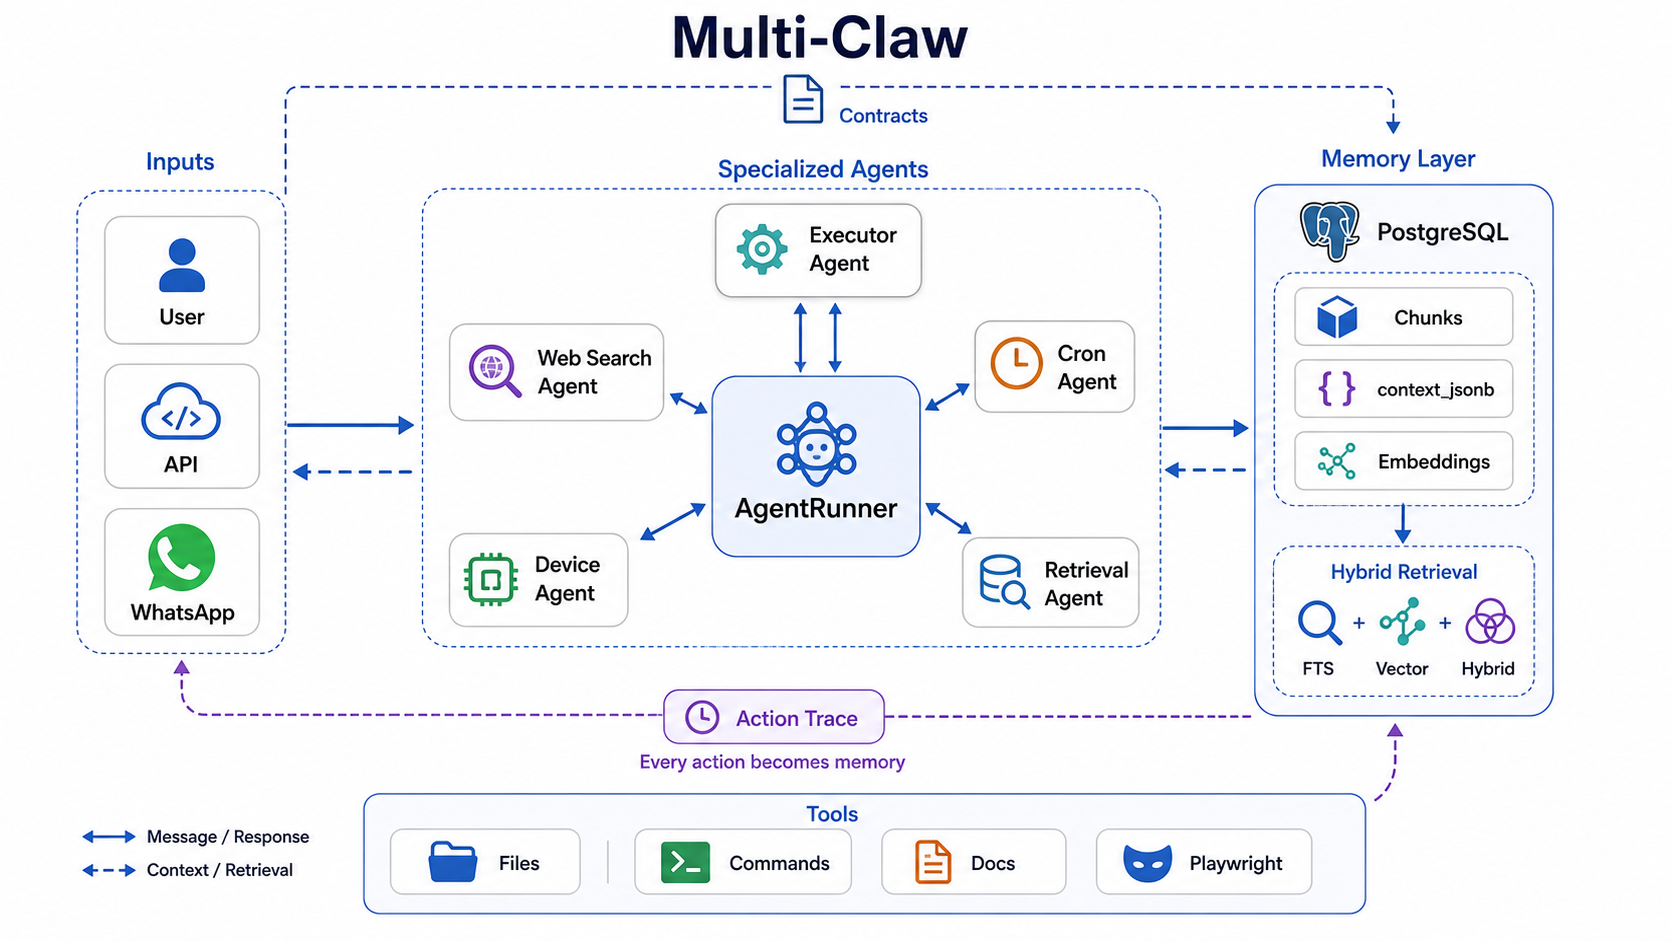
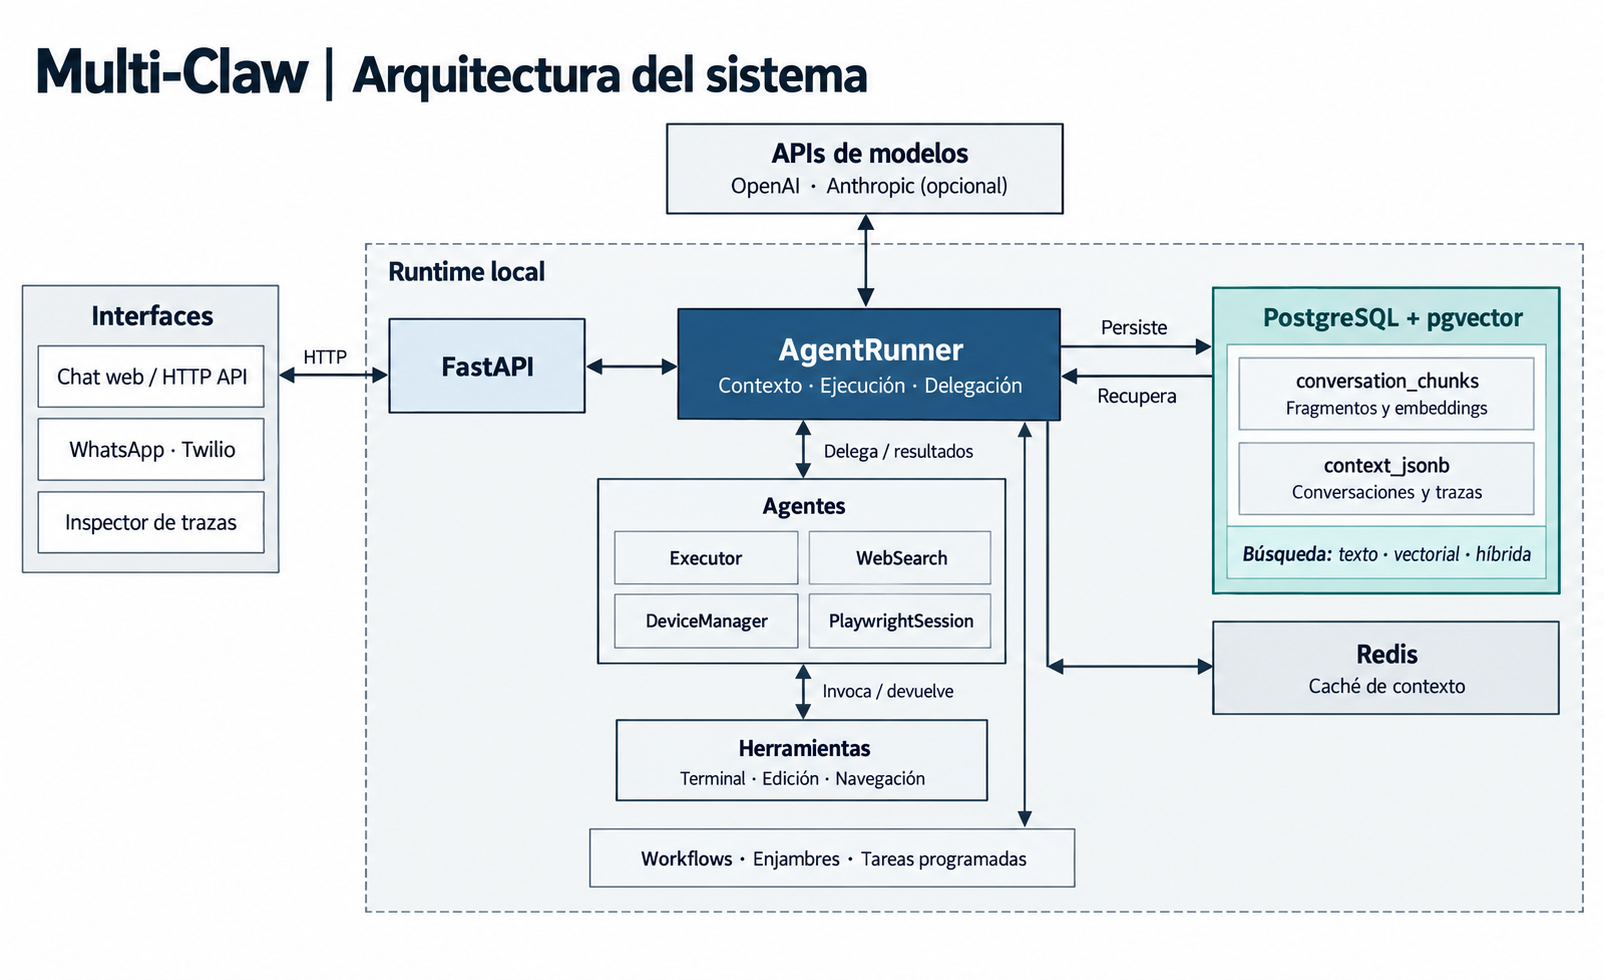
update readme, architecture diagram and default models

diff --git a/README.md b/README.md
@@ -7,85 +7,75 @@
 ![Docker](https://img.shields.io/badge/Docker-Ready-2496ED?style=for-the-badge&logo=docker&logoColor=white)
 ![OpenAI](https://img.shields.io/badge/OpenAI-Responses_API-111111?style=for-the-badge&logo=openai&logoColor=white)
 
-**Multi-Claw es un laboratorio local de agentes autónomos con memoria profunda.**
+**Agentes que ejecutan tareas, delegan trabajo y conservan una memoria consultable de lo que hicieron.**
 
-No es "un chatbot con herramientas": es un runtime para agentes que trabajan, delegan, ejecutan, guardan trazabilidad y luego pueden reconstruir qué pasó.
+Runtime local y experimental que combina herramientas, workflows y memoria persistente para reconstruir **qué ocurrió, cuándo y qué agente intervino**.
 
-```text
-Multi-Claw = multiagente + memoria accionable + workflows + runtime local
-```
+![Chat/API → AgentRunner → agentes y herramientas; PostgreSQL guarda y recupera trazas; Redis mantiene la caché.](docs/architecture.png)
 
-![Arquitectura de Multi-Claw](docs/architecture.png)
+## Qué puedes hacer
 
-## Highlights
+- **Delegar tareas:** agentes especializados y enjambres con presupuestos controlados por el servidor.
+- **Ejecutar trabajo:** terminal, edición de archivos, navegación con Playwright y tareas programadas.
+- **Reutilizar procedimientos:** workflows versionables con instrucciones, prompts y plantillas SQL.
+- **Consultar el historial:** buscar por sesión, fecha, herramienta, subagente, texto o similitud.
+- **Inspeccionar ejecuciones:** conversaciones, llamadas a herramientas y árboles de agentes en una misma traza.
+- **Ajustar recursos:** elegir modelos por agente y repartir contexto entre subtareas.
 
-- 🧠 **Memoria operacional:** conversaciones, chunks, `context_jsonb`, decisiones, tools, subagentes y artefactos.
-- ⚙ **Agentes autónomos:** tareas periódicas tipo cron, con estado y trazabilidad.
-- 🧩 **Workflows versionables:** playbooks, prompts y SQL templates como habilidades reutilizables.
-- 💸 **Menos coste/context rotting:** subtareas delegables a agentes/modelos más baratos.
-- 🛡 **Aislamiento extra:** agentes, contratos y tools separados reducen superficie ante prompt injection.
-- 🔎 **Retrieval multitemporal:** consultas por sesión, fecha, evento, herramienta, subagente o texto literal.
+> Uso interno con historiales de más de 20 millones de tokens; pendiente de benchmark formal.
 
-> En uso real interno ha funcionado bien con historiales de más de 20M tokens. Falta benchmark formal: prometedor, no una garantía.
+## Arranque rápido con Docker
 
-## Frente A OpenClaw Y Similares
-
-OpenClaw está más maduro como producto: mejor instalación, más canales, más ecosistema y una memoria muy trabajada con archivos, SQLite/hybrid search, QMD, Honcho y wiki.
-
-Multi-Claw vende otra cosa: **memoria como caja negra consultable de la ejecución del agente**.
-
-| Area | OpenClaw / similares | Multi-Claw |
-| --- | --- | --- |
-| Producto | Más pulido | Más experimental y hackeable |
-| Memoria | Notas, sesiones, índices y backends | PostgreSQL + chunks + `context_jsonb` |
-| Foco | Asistente local completo | Auditoría, retrieval y automatización profunda |
-| Recall | Knowledge/user memory | Acciones, tools, subagentes y temporalidad |
-| Coste | Runtime generalista | Delegacion multiagente para contener contexto |
-| Seguridad | Ecosistema más maduro | Aislamiento por agentes/contratos como capa adicional |
-
-Referencias: [OpenClaw Memory](https://docs.openclaw.ai/concepts/memory) y [OpenClaw Multi-Agent](https://docs.openclaw.ai/concepts/multi-agent).
-
-## Casos Que Quiere Resolver
-
-- "¿Qué decisión tomó el agente sobre este proyecto hace tres semanas?"
-- "¿Qué subagente generó este archivo y bajo qué contrato?"
-- "¿Qué tool falló antes de que apareciera este bug?"
-- "¿Dónde se mezclan tema A, fecha B y herramienta C?"
-- "¿Qué preferencias del usuario cambiaron esta respuesta?"
-
-## Estado Real
-
-Experimental, local-first y todavía no empaquetado como producto. Necesita `OPENAI_API_KEY`, PostgreSQL y, de forma recomendada, Redis. `pgvector` activa la búsqueda vectorial; sin él, los embeddings quedan guardados pero no hay retrieval vectorial real.
-
-No expongas esto a Internet sin revisar auth, CORS, tools de comandos y permisos de escritura.
-
-## Arranque Rápido Para Un Clone Nuevo
+Necesitas Git, Docker Compose y una clave de OpenAI con acceso a los modelos de [la configuración](agents/agent_config.json).
 
 ```bash
-git clone <url-del-repo>
+git clone https://github.com/ale-espa-pro/multi-claw.git
 cd multi-claw
-export OPENAI_API_KEY="sk-..."
+cp .env.example .env
+# Edita .env: OPENAI_API_KEY y CHAT_API_KEY; cambia la contraseña de Postgres.
 docker compose up --build
 ```
 
-Abre `http://localhost:8000`.
+Compose crea PostgreSQL con pgvector y Redis, persiste sus datos y monta `./working-dir`.
 
-## Stack
+- **Chat:** [localhost:8000](http://localhost:8000).
+- **Inspector de agentes:** [localhost:8000/inspector](http://localhost:8000/inspector); admite `X-API-Key`.
+- **API interactiva:** [localhost:8000/docs](http://localhost:8000/docs).
 
-| Capa | Tecnología |
-| --- | --- |
-| API | FastAPI + Uvicorn |
-| Agentes | OpenAI Responses API |
-| Memoria | PostgreSQL, pgvector/HNSW, FTS, JSONB |
-| Cache | Redis |
-| UI | `index.html` |
-| Automatización | crons + workflows |
-| Canales | HTTP + Twilio/WhatsApp opcional |
-| Tools | archivos, comandos, docs, Playwright |
+**Autenticación:** con `CHAT_API_KEY` definida, envía `X-API-Key` en las peticiones. El chat web la pide la primera vez y la recuerda en el navegador. Sin clave, la API y su terminal quedan abiertas: úsalo solo en un entorno local de confianza.
 
-No commitees `.env`, claves, dumps, screenshots privados ni memoria personal.
+Para detener los servicios conservando datos: `docker compose down`.
 
-## Configuración Mínima
+## Estado y alcance
+
+El runtime y los datos residen en tu máquina; modelos y embeddings usan APIs externas. Requiere `OPENAI_API_KEY` y PostgreSQL; Redis es recomendable. Sin pgvector se guardan embeddings, pero no hay búsqueda vectorial.
+
+La separación de agentes y herramientas **no constituye un sandbox** ni garantiza protección frente a inyección de prompts.
+
+## Frente a OpenClaw
+
+Multi-Claw prioriza la **memoria de ejecución**: acciones, herramientas, delegaciones y contexto.
+
+| Aspecto | OpenClaw | Multi-Claw |
+| --- | --- | --- |
+| Memoria | Archivos Markdown, notas y búsqueda | PostgreSQL, fragmentos y `context_jsonb` |
+| Agentes | Espacios de trabajo y sesiones por agente | Especialistas y enjambres con trazas por nodo |
+| Organización | Enrutamiento de mensajes entre agentes | Delegación de tareas y árbol de informes |
+
+Comparación de diseño: [memoria de OpenClaw](https://docs.openclaw.ai/concepts/memory) y [enrutamiento multiagente](https://docs.openclaw.ai/concepts/multi-agent).
+
+## Preguntas que ayuda a resolver
+
+- «¿Qué decisión tomó el agente sobre este proyecto hace tres semanas?»
+- «¿Qué subagente generó este archivo y bajo qué contrato?»
+- «¿Qué herramienta falló antes de que apareciera este error?»
+- «¿Dónde coinciden este tema, esta fecha y esta herramienta?»
+
+## Configuración
+
+[`.env.example`](.env.example) contiene los valores para Docker. Los modelos, herramientas y límites por agente se definen en [`agents/agent_config.json`](agents/agent_config.json). Los modelos `claude-*` requieren además `ANTHROPIC_API_KEY`.
+
+**Sin Docker**, configura en `.env` tus servicios:
 
 ```env
 OPENAI_API_KEY=sk-...
@@ -102,146 +92,142 @@ MULTIAGENT_PG_SCHEMA=multiagente
 REDIS_URL=redis://localhost:6379
 ```
 
-Opcionales útiles: `MEMORY_RETRIEVAL_MODE=vector|keyword|hybrid`, `REDIS_CONTEXT_TTL_SECONDS`, `TOOL_OUTPUT_MAX_CHARS`, `TOOL_OUTPUT_HARD_MAX_CHARS`, `AGENT_API_CONCURRENCY`, `TWILIO_*`, `CRONS_PATH`, `WORKFLOW_PATH`, `USER_PREFERENCES_PATH`, `ALLOWED_WRITE_ROOTS`.
+Ajustes útiles: `MEMORY_RETRIEVAL_MODE` (`vector`, `keyword` o `hybrid`), `MEMORY_QUERY_TIMEOUT_SECONDS`, `REDIS_CONTEXT_TTL_SECONDS`, `TOOL_OUTPUT_MAX_CHARS`, `TOOL_OUTPUT_HARD_MAX_CHARS`, `CONTEXT_COMPACT_OVER_CHARS` (`0` lo desactiva), `CONTEXT_CHECKPOINT_SECONDS`, `AGENT_API_CONCURRENCY`, `CORS_ORIGINS` y `ALLOWED_WRITE_ROOTS`. En Docker el servicio carga `.env`; los valores de `environment` tienen prioridad.
 
-## Arranque Con Docker
+### Docker con servicios existentes
 
-Para una instalación nueva, copia `.env.example` a `.env`, rellena `OPENAI_API_KEY` y arranca:
-
-```bash
-docker compose up --build
-```
-
-Esto crea Postgres y Redis en contenedores, monta `./working-dir` en la app y expone la API en `http://localhost:8000`.
-
-Si quieres usar Postgres/Redis ya existentes en tu host, copia `docker-compose.host-db.example.yml` a `docker-compose.local.yml`, ajusta las variables `DOCKER_MULTIAGENT_PG_*` en `.env` y arranca con:
+Copia [`docker-compose.host-db.example.yml`](docker-compose.host-db.example.yml) a `docker-compose.local.yml`. Ajusta en `.env` las variables `DOCKER_MULTIAGENT_PG_*` y `DOCKER_REDIS_URL` a tus servicios; esta variante usa la red del host.
 
 ```bash
 docker compose -f docker-compose.local.yml up --build
 ```
 
-Para parar:
+### Ejecución sin Docker
 
-```bash
-docker compose down
-```
-
-## Arranque Local Sin Docker
-
-Necesitas Python 3.11 o posterior y [`uv`](https://docs.astral.sh/uv/getting-started/installation/). Desde la raíz del proyecto:
+Con Python 3.11+, [`uv`](https://docs.astral.sh/uv/getting-started/installation/) y PostgreSQL accesible, ejecuta desde la raíz:
 
 ```bash
 uv sync --locked
 uv run playwright install chromium
-uv run uvicorn main:app --reload --host 0.0.0.0 --port 8000
+uv run uvicorn main:app --reload --host 127.0.0.1 --port 8000
 ```
 
-Si arrancas desde otro directorio, las rutas relativas de `.env` se resuelven respecto a la raíz del proyecto mediante `app_paths.py`.
+Las rutas de trabajo relativas se resuelven desde la raíz del proyecto mediante `app_paths.py`.
 
 ## API
 
-```http
-POST /chat
-Content-Type: application/json
-X-API-Key: <si CHAT_API_KEY está definido>
+Primera petición; sustituye `change-me` por tu `CHAT_API_KEY`:
+
+```bash
+curl http://localhost:8000/chat \
+  -H 'Content-Type: application/json' \
+  -H 'X-API-Key: change-me' \
+  -d '{"session_id":"demo","username":"usuario","message":"Hola"}'
 ```
 
-```json
-{
-  "session_id": "demo",
-  "username": "usuario",
-  "message": "Hola",
-  "conversation_type": null
-}
-```
+`POST /chat` también acepta `conversation_type` e `images` con `url`, `path`, `data_url`, `file_id` o `base64`.
 
-También acepta `images` con `url`, `path`, `data_url`, `file_id` o `base64`.
+| Ruta | Función |
+| --- | --- |
+| `GET /conversations` | Listar conversaciones |
+| `GET /conversations/{session_id}` | Leer una conversación |
+| `GET /conversations/{session_id}/trace` | Consultar el árbol de agentes y sus trazas |
+| `DELETE /conversations/{session_id}` | Eliminar una conversación |
+| `POST /twilio/webhook` | Recibir mensajes de WhatsApp mediante Twilio |
 
-- `GET /conversations`
-- `GET /conversations/{session_id}`
-- `DELETE /conversations/{session_id}`
-- `POST /twilio/webhook`
+## Cómo funciona la memoria
 
-## Memoria
+Los fragmentos permiten encontrar información; las trazas, reconstruir la ejecución:
 
-La parte fuerte. Multi-Claw trata la memoria como historial consultable de ejecución, no solo como notas o resumen inyectado.
+1. Divide el texto conversacional en fragmentos semánticos y genera embeddings con OpenAI.
+2. Guarda los fragmentos en `multiagente.conversation_chunks`.
+3. Recupera información por búsqueda vectorial, palabras clave o modo híbrido.
+4. Consulta `conversations.context_jsonb` cuando necesita texto literal, cronología o llamadas a herramientas.
 
-1. Divide texto conversacional en chunks semánticos.
-2. Genera embeddings con OpenAI.
-3. Guarda chunks en `multiagente.conversation_chunks`.
-4. Recupera por vector, keyword o híbrido.
-5. Baja a `conversations.context_jsonb` cuando hace falta literalidad o cronología.
+Al empezar un turno, la entrada y salida de herramientas anterior al turno previo se envía resumida si supera 2.000 caracteres. `context_jsonb` conserva siempre el original.
 
-El workflow `working-dir/workflows/memory_retrieval_tutorial` documenta el playbook de retrieval: clasificar intención, reducir espacio de búsqueda, combinar FTS/vector/híbrido y abrir JSON solo cuando compensa.
+El [workflow de recuperación](working-dir/workflows/memory_retrieval_tutorial/README.md) explica cómo acotar búsquedas, combinar texto y vectores y consultar el JSON.
 
-## Enjambres De Agentes
+## Enjambres de agentes
 
-`deploy_swarm` despliega un árbol de agentes efímeros sobre un árbol de carpetas. La invariante es que **el `agent_id` de un agente es su ruta relativa**, así que jerarquía de agentes, de directorios y de carriles en `context_jsonb` son la misma cosa y el inspector reconstruye el árbol sin estado adicional.
+`deploy_swarm` crea agentes efímeros organizados por carpetas. El **`agent_id` es su ruta relativa**: carpetas, jerarquía y trazas comparten estructura.
 
 ```text
 deploy_swarm(root_path=..., budget=12, task=...)
-└── auditoria                    carpeta asignada: auditoria/
-    ├── seguridad                carpeta asignada: auditoria/seguridad/
-    │   └── dependencias         carpeta asignada: auditoria/seguridad/dependencias/
-    └── rendimiento              carpeta asignada: auditoria/rendimiento/
+└── auditoria
+    ├── seguridad
+    │   └── dependencias
+    └── rendimiento
 ```
 
-- **Terminal por defecto.** Cada nodo recibe `run_command` y los hijos heredan ese acceso. La carpeta asignada organiza sus artefactos; no es un sandbox del sistema operativo. `allow_shell=false` retira la terminal de una rama y sus descendientes no pueden recuperarla. `edit_file` sí limita las modificaciones a la carpeta del nodo mediante un `ContextVar` fijado por el runner; inspeccionar archivos externos está permitido.
-- **Presupuesto.** `budget` es el número total de agentes (1-50), raíz incluida. Crear un hijo con `budget=k` cuesta `1+k` al padre y lo que el hijo no gasta se le devuelve al terminar. El tope lo lleva el servidor, no el prompt.
-- **REPORT.md.** Cada agente termina escribiendo un informe con resultado, artefactos, ejecuciones, limitaciones y siguientes pasos. El padre lo recibe ya leído en el resultado de la llamada. Las ramas sin terminal reciben un archivo inicial para completarlo con `edit_file`; no pueden crear archivos nuevos. Si falta el informe o queda vacío o sin completar, el agente recibe un turno extra para escribirlo y, si sigue faltando, el resultado se marca como `report_missing`.
-- **Efímeros pero trazables.** Un nodo vive una sola invocación y su continuidad es el REPORT.md, pero su carril de contexto se persiste entero en `context_jsonb`: todo el árbol queda disponible para `memory_query` y para `/conversations/{id}/trace`.
+- **Acceso:** cada nodo recibe `run_command` por defecto. Su carpeta organiza artefactos, pero no restringe la terminal. `allow_shell=false` retira ese acceso de la rama; sus descendientes no pueden recuperarlo. `edit_file` limita las modificaciones a la carpeta asignada y permite inspeccionar archivos externos.
+- **Presupuesto:** `deploy_swarm(budget=N)` cuenta todos los agentes, raíz incluida (máximo predeterminado: 50). Al crear un hijo, `budget=k` reserva su plaza y otras `k` para descendientes: cuesta `1+k` al padre. El presupuesto no usado se devuelve al terminar.
+- **Informe:** cada nodo escribe `REPORT.md` con resultados, artefactos y limitaciones; el padre recibe su contenido. Sin terminal, el agente completa un informe inicial con `edit_file` y no puede crear archivos. Si no lo completa tras un turno adicional, el resultado se marca `report_missing`.
+- **Trazabilidad:** cada nodo vive una invocación, pero conserva su contexto en `context_jsonb`, consultable con `memory_query` y desde el inspector.
 
-Se configura en el bloque `_swarm` de `agents/agent_config.json`: modelo, toolset, `max_depth`, `max_concurrent`, `max_budget` y `max_iterations`.
+El bloque `_swarm` configura modelo, herramientas, profundidad, concurrencia, presupuesto e iteraciones.
 
-## Terminal Y Edición De Archivos
+## Terminal y edición de archivos
 
-`run_command` es la herramienta general para leer y crear archivos, buscar y ejecutar scripts, incluido Python. Está disponible para ExecutorAgent, DeviceManagerAgent, PlaywrightSessionAgent y, por defecto, los agentes del enjambre. Las herramientas `run_python`, `read_file`, `write_file` y `file_hash` se han retirado.
+`run_command` permite leer y crear archivos, buscar y ejecutar scripts. Lo usan ExecutorAgent, DeviceManagerAgent, PlaywrightSessionAgent y, por defecto, los enjambres.
 
-`edit_file` reúne la inspección de una versión y su edición protegida:
+`edit_file` modifica archivos existentes con detección de conflictos:
 
-1. Llama con `action="inspect"` y `path`. Devuelve el contenido y `file_hash.value` (MD5 de la misma versión leída); `offset` y `max_chars` permiten leer por fragmentos.
-2. Llama con `action="edit"`, `path`, `old_text` no vacío, `new_text` y `expected_file_hash` igual al hash inspeccionado. Usa `replace_all=true` solo para sustituir todas las apariciones.
-3. Si el archivo cambió, la edición devuelve `file_conflict` sin escribir. Repite `inspect`, revisa los cambios y prepara la edición sobre esa versión.
+1. `action="inspect"` con `path` devuelve contenido y `file_hash.value`. `offset` y `max_chars` permiten inspeccionar fragmentos.
+2. `action="edit"` recibe `path`, `old_text` no vacío, `new_text` y `expected_file_hash`. Usa `replace_all=true` para sustituir todas las coincidencias.
+3. Si cambió el archivo, devuelve `file_conflict` sin escribir: vuelve a inspeccionar antes de editar.
 
-`inspect` calcula el hash sobre los mismos bytes que devuelve como contenido; evita leer y calcular el hash en operaciones separadas. Los comandos de shell no aplican este control de versiones; usa `edit_file` al modificar archivos existentes para aprovecharlo.
+El hash MD5 identifica la versión completa leída, incluso al inspeccionar fragmentos. Los comandos de terminal no aplican este control.
+
+## Stack
+
+| Capa | Tecnología |
+| --- | --- |
+| API e interfaces | FastAPI, Uvicorn, chat e inspector HTML |
+| Modelos | OpenAI Responses API; Anthropic opcional |
+| Memoria | PostgreSQL, pgvector/HNSW, búsqueda de texto y JSONB |
+| Caché | Redis |
+| Automatización | Workflows, tareas programadas y enjambres |
+| Integraciones | HTTP, Twilio/WhatsApp y Playwright |
 
 ## Tests
 
 ```bash
-uv run python -m unittest
+OPENAI_API_KEY=dev-only uv run python -m unittest
 ```
 
-Los tests son unitarios. Conviene tener `OPENAI_API_KEY` definida aunque sea con un valor de desarrollo; no hacen llamadas reales a OpenAI.
+Pruebas unitarias sin llamadas a OpenAI; la clave ficticia permite inicializar clientes.
 
-## Seguridad Antes De Compartir O Exponer
+## Antes de compartir o exponer
 
-Herramienta local con mucho poder. Antes de compartir: `CHAT_API_KEY`, CORS restringido, contraseñas cambiadas, Postgres/Redis no expuestos, `ALLOWED_WRITE_ROOTS` limitado y revisión de `working-dir/`.
+Configura `CHAT_API_KEY`, define `CORS_ORIGINS` si accedes desde otro origen (por defecto solo `localhost`), cambia contraseñas y limita `ALLOWED_WRITE_ROOTS`. Revisa la terminal: los límites de `edit_file` no restringen comandos.
 
-## Mejoras Recomendadas
+Compose publica la API y PostgreSQL (`5433`) solo en `127.0.0.1`; `APP_BIND_ADDRESS` y `POSTGRES_BIND_ADDRESS` lo cambian. Protege los puertos que expongas. No subas `.env`, claves, volcados, capturas privadas ni memoria personal; revisa `working-dir/` antes de compartirlo.
 
-- `.env.example` sin secretos.
-- Modo `dev/prod` claro.
-- Healthcheck de API/DB/Redis/OpenAI.
-- CI con `uv run python -m unittest` y build Docker.
-- Benchmarks formales de memoria: recall, precisión, coste y temporalidad.
-- Hardening de tools, CORS, auth y permisos multiusuario.
+## Próximas mejoras
+
+- Separar claramente los modos de desarrollo y producción.
+- Añadir comprobaciones de salud de la API y sus dependencias.
+- Automatizar pruebas unitarias y build de Docker en CI.
+- Medir precisión, recuperación, coste y temporalidad de la memoria.
+- Reforzar autenticación, CORS, herramientas y permisos multiusuario.
 
 ## Estructura
 
 ```text
 .
-├── main.py
-├── app_paths.py
-├── index.html
+├── main.py                  # API y arranque
+├── app_paths.py             # Resolución de rutas
+├── index.html / inspector.html
 ├── docs/architecture.png
-├── agents/
-├── runner/
-├── tools/
-│   └── memoryTools/
-├── data/
+├── agents/                  # Configuración y prompts
+├── runner/                  # Ejecución, contexto y enjambres
+├── providers/               # OpenAI y Anthropic
+├── tools/memoryTools/       # Fragmentación y recuperación
+├── data/                    # Persistencia y trazas
 ├── integrations/twilio/
 ├── tests/
-├── working-dir/workflows/memory_retrieval_tutorial/
+├── working-dir/             # Artefactos, memoria y workflows
 ├── Dockerfile
 └── docker-compose.yml
 ```
